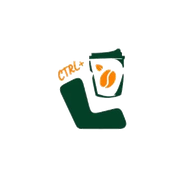
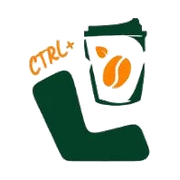
feat: pemuatan modern (splash, skeleton, bilah kemajuan) dan ikon aplikasi transparan
- AppSplash menggantikan teks 'Memuat sesi'
- TopProgress: bilah tipis saat pindah halaman atau mengambil data
- Skeleton KPI/tabel/grafik pada Dashboard dan Analitik, animasi fade-in halaman
- Ikon PWA 'any' transparan tanpa kotak; maskable dan iOS tetap berlatar putih
- menghormati prefers-reduced-motion

Claude-Session: https://claude.ai/code/session_013TmsWNJaSr63QsEKMwHy78

Changed region(s): [[0.1667, 0.0833, 0.8333, 0.9167], [0.1389, 0.2222, 0.4167, 0.4167]]

diff --git a/app/routes/sales-analytics.tsx b/app/routes/sales-analytics.tsx
@@ -5,6 +5,7 @@ import { PageBody, PageHeader } from "@/components/shared/page-header";
 import { TableShell } from "@/components/shared/table-shell";
 import { BarList, Empty, KpiCard, LineChart, Section } from "@/components/scm/ui";
 import { Input } from "@/components/ui/input";
+import { ChartSkeleton, KpiSkeletons, TableSkeleton } from "@/components/ui/skeleton";
 import { Table, TableBody, TableCell, TableHead, TableHeader, TableRow } from "@/components/ui/table";
 import { useList } from "@/hooks/use-list";
 import { formatDate, formatIDR, formatNumber } from "@/lib/format";
@@ -35,7 +36,7 @@ export default function SalesAnalyticsRoute() {
         <label className="flex flex-col gap-1 text-xs text-muted-foreground">Tren per<select className={`${nativeSelectClass} w-32`} value={granularity} onChange={(e) => setGranularity(e.target.value as any)}><option value="day">Hari</option><option value="week">Minggu</option><option value="month">Bulan</option></select></label>
         <label className="flex flex-col gap-1 text-xs text-muted-foreground">Kategori<select className={`${nativeSelectClass} w-44`} value={idCategories} onChange={(e) => setCat(e.target.value)}><option value="">Semua</option>{(cats.data ?? []).map((c) => <option key={c.idCategories} value={c.idCategories}>{c.categoryName}</option>)}</select></label>
       </div>
-      {d.error && !s ? <Empty>Analitik gagal dimuat: {d.error.message}. <button type="button" className="ml-1 text-primary underline" onClick={() => void d.refetch()}>Coba lagi</button></Empty> : !s ? <p className="text-sm text-muted-foreground">Memuat…</p> : s.transactionCount === 0 && s.previous.transactionCount === 0 ? <Empty>Belum ada transaksi penjualan pada periode ini. Input atau impor data di halaman Data Penjualan.</Empty> : (
+      {d.error && !s ? <Empty>Analitik gagal dimuat: {d.error.message}. <button type="button" className="ml-1 text-primary underline" onClick={() => void d.refetch()}>Coba lagi</button></Empty> : !s ? <><KpiSkeletons count={4} /><ChartSkeleton /><TableSkeleton rows={4} cols={3} /></> : s.transactionCount === 0 && s.previous.transactionCount === 0 ? <Empty>Belum ada transaksi penjualan pada periode ini. Input atau impor data di halaman Data Penjualan.</Empty> : (
         <>
           <div className="grid gap-3 sm:grid-cols-2 xl:grid-cols-4">
             <KpiCard label="Total pendapatan" value={formatIDR(s.totalRevenue)} />

diff --git a/app/components/ui/skeleton.tsx b/app/components/ui/skeleton.tsx
@@ -1,0 +1,35 @@
+import { cn } from "@/lib/utils";
+
+/** Placeholder pemuatan (shimmer halus) agar tata letak tidak melompat saat data tiba. */
+export function Skeleton({ className }: { className?: string }) {
+  return <div aria-hidden className={cn("ctrl-shimmer rounded-md bg-muted", className)} />;
+}
+
+export function KpiSkeletons({ count = 4 }: { count?: number }) {
+  return (
+    <div className="grid gap-3 sm:grid-cols-2 xl:grid-cols-4" role="status" aria-label="Memuat">
+      {Array.from({ length: count }).map((_, i) => (
+        <div key={i} className="rounded-lg border border-border bg-card p-4">
+          <Skeleton className="h-3 w-2/3" />
+          <Skeleton className="mt-3 h-7 w-1/2" />
+          <Skeleton className="mt-2 h-3 w-1/3" />
+        </div>
+      ))}
+    </div>
+  );
+}
+
+export function TableSkeleton({ rows = 5, cols = 4 }: { rows?: number; cols?: number }) {
+  return (
+    <div className="overflow-hidden rounded-lg border border-border bg-card" role="status" aria-label="Memuat">
+      <div className="flex gap-4 border-b border-border px-4 py-3">{Array.from({ length: cols }).map((_, i) => <Skeleton key={i} className="h-3 flex-1" />)}</div>
+      {Array.from({ length: rows }).map((_, r) => (
+        <div key={r} className="flex gap-4 border-b border-border/60 px-4 py-3.5 last:border-0">{Array.from({ length: cols }).map((_, i) => <Skeleton key={i} className="h-4 flex-1" />)}</div>
+      ))}
+    </div>
+  );
+}
+
+export function ChartSkeleton() {
+  return <div className="rounded-lg border border-border bg-card p-4" role="status" aria-label="Memuat"><Skeleton className="h-48 w-full" /></div>;
+}

diff --git a/app/routes/_index.tsx b/app/routes/_index.tsx
@@ -5,6 +5,7 @@ import { PageBody, PageHeader } from "@/components/shared/page-header";
 import { StatusBadge } from "@/components/shared/status-badge";
 import { TableShell } from "@/components/shared/table-shell";
 import { Empty, KpiCard, Section } from "@/components/scm/ui";
+import { KpiSkeletons, TableSkeleton } from "@/components/ui/skeleton";
 import { Table, TableBody, TableCell, TableHead, TableHeader, TableRow } from "@/components/ui/table";
 import { useList } from "@/hooks/use-list";
 import { useUser } from "@/hooks/use-user";
@@ -20,7 +21,7 @@ export default function DashboardRoute() {
   const { data: s, isLoading, error, refetch } = useList<any>("get-operational-summary");
   const role = user?.roleCode;
   if (error && !s) return <PageBody><PageHeader title="Dashboard" /><Empty>Ringkasan gagal dimuat: {error.message}. <button type="button" className="ml-1 text-primary underline" onClick={() => void refetch()}>Coba lagi</button></Empty></PageBody>;
-  if (isLoading || !s) return <PageBody><PageHeader title="Dashboard" /><p className="text-sm text-muted-foreground">Memuat ringkasan…</p></PageBody>;
+  if (isLoading || !s) return <PageBody><PageHeader title="Dashboard" /><KpiSkeletons count={4} /><TableSkeleton rows={4} cols={4} /></PageBody>;
   const fin = s.finance as any | undefined;
   return (
     <PageBody>

diff --git a/app/components/layout/Layout.tsx b/app/components/layout/Layout.tsx
@@ -10,7 +10,9 @@ import { Badge } from "@/components/ui/badge";
 import { useUser } from "@/hooks/use-user";
 import { canAccess, findNavItem, ROLE_LABELS } from "@/lib/nav";
 
+import { AppSplash } from "./AppSplash";
 import { QueryErrorBanner } from "./QueryErrorBanner";
+import { TopProgress } from "./TopProgress";
 import { Sidebar } from "./Sidebar";
 
 interface LayoutProps {
@@ -36,7 +38,7 @@ function SessionGate({ children }: LayoutProps) {
   useEffect(() => {
     if (unauthorized && (error?.statusCode === 401 || error?.status === 401 || /Sesi tidak valid|401/.test(error?.message ?? ""))) window.location.assign("/masuk");
   }, [unauthorized, error]);
-  if (isLoading) return <div className="flex h-screen items-center justify-center text-sm text-muted-foreground">Memuat sesi…</div>;
+  if (isLoading) return <AppSplash label="Memeriksa sesi" />;
   if (!user) {
     return (
       <div className="flex h-screen flex-col items-start justify-center gap-3 p-10">
@@ -57,6 +59,7 @@ function ShellFrame({ children }: LayoutProps) {
 
   return (
     <div className="flex h-screen w-full overflow-hidden bg-background text-foreground">
+      <TopProgress />
       <aside className="hidden w-60 shrink-0 border-r border-sidebar-border bg-sidebar md:block">
         <Sidebar />
       </aside>

diff --git a/app/global.css b/app/global.css
@@ -281,3 +281,14 @@
 ::-webkit-scrollbar-thumb:hover {
   background: hsl(var(--muted-foreground) / 0.34);
 }
+
+/* Animasi pemuatan (tanpa pustaka tambahan) */
+@keyframes ctrl-indeterminate { 0% { transform: translateX(-100%); } 100% { transform: translateX(300%); } }
+@keyframes ctrl-pulse { 0%, 100% { opacity: 1; transform: scale(1); } 50% { opacity: .75; transform: scale(.96); } }
+@keyframes ctrl-shimmer { 0% { background-position: -200% 0; } 100% { background-position: 200% 0; } }
+@keyframes ctrl-fade-in { from { opacity: 0; transform: translateY(4px); } to { opacity: 1; transform: none; } }
+.ctrl-indeterminate { animation: ctrl-indeterminate 1.1s ease-in-out infinite; }
+.ctrl-pulse { animation: ctrl-pulse 1.6s ease-in-out infinite; }
+.ctrl-shimmer { background-image: linear-gradient(90deg, transparent 0%, hsl(0 0% 100% / .65) 50%, transparent 100%); background-size: 200% 100%; animation: ctrl-shimmer 1.4s linear infinite; }
+.ctrl-fade-in { animation: ctrl-fade-in .22s ease-out both; }
+@media (prefers-reduced-motion: reduce) { .ctrl-indeterminate, .ctrl-pulse, .ctrl-shimmer, .ctrl-fade-in { animation: none; } }

diff --git a/app/components/layout/TopProgress.tsx b/app/components/layout/TopProgress.tsx
@@ -1,0 +1,21 @@
+import { useIsFetching } from "@tanstack/react-query";
+import { useEffect, useState } from "react";
+import { useNavigation } from "react-router";
+
+/** Bilah tipis di atas halaman: tampil bila pindah halaman atau ada data yang sedang diambil (tertunda 120 ms agar tidak berkedip). */
+export function TopProgress() {
+  const navigation = useNavigation();
+  const fetching = useIsFetching();
+  const busy = navigation.state !== "idle" || fetching > 0;
+  const [show, setShow] = useState(false);
+  useEffect(() => {
+    if (!busy) { setShow(false); return; }
+    const t = setTimeout(() => setShow(true), 120);
+    return () => clearTimeout(t);
+  }, [busy]);
+  return (
+    <div aria-hidden className={`pointer-events-none fixed inset-x-0 top-0 z-50 h-0.5 overflow-hidden transition-opacity duration-300 ${show ? "opacity-100" : "opacity-0"}`}>
+      <div className="ctrl-indeterminate h-full w-1/3 bg-primary" />
+    </div>
+  );
+}

diff --git a/app/components/layout/AppSplash.tsx b/app/components/layout/AppSplash.tsx
@@ -1,0 +1,10 @@
+/** Layar pembuka saat sesi diperiksa: logo berdenyut dan bilah kemajuan, bukan teks "Memuat sesi…". */
+export function AppSplash({ label = "Menyiapkan aplikasi" }: { label?: string }) {
+  return (
+    <div className="flex h-screen flex-col items-center justify-center gap-6 bg-background" role="status" aria-live="polite">
+      <img src="/ctrl-coffee-logo.png" alt="CTRL + Coffee" className="ctrl-pulse h-20 w-auto" />
+      <div className="h-1 w-40 overflow-hidden rounded-full bg-muted"><div className="ctrl-indeterminate h-full w-1/3 rounded-full bg-primary" /></div>
+      <p className="text-xs text-muted-foreground">{label}…</p>
+    </div>
+  );
+}

diff --git a/public/sw.js b/public/sw.js
@@ -1,6 +1,6 @@
 /* Service worker CTRL + Coffee: hanya menyimpan berkas statis (ikon, aset build).
    Data transaksi, sesi, dan respons /_agent-native TIDAK pernah disimpan agar tidak ada data usang atau bocor antar pengguna. */
-const CACHE = "ctrl-coffee-static-v2";
+const CACHE = "ctrl-coffee-static-v3";
 const OFFLINE_URL = "/offline.html";
 
 self.addEventListener("install", (event) => {

diff --git a/app/components/shared/page-header.tsx b/app/components/shared/page-header.tsx
@@ -21,5 +21,5 @@ export function PageHeader({
 }
 
 export function PageBody({ children }: { children: React.ReactNode }) {
-  return <div className="flex flex-col gap-6 p-4 md:p-8">{children}</div>;
+  return <div className="ctrl-fade-in flex flex-col gap-6 p-4 md:p-8">{children}</div>;
 }
